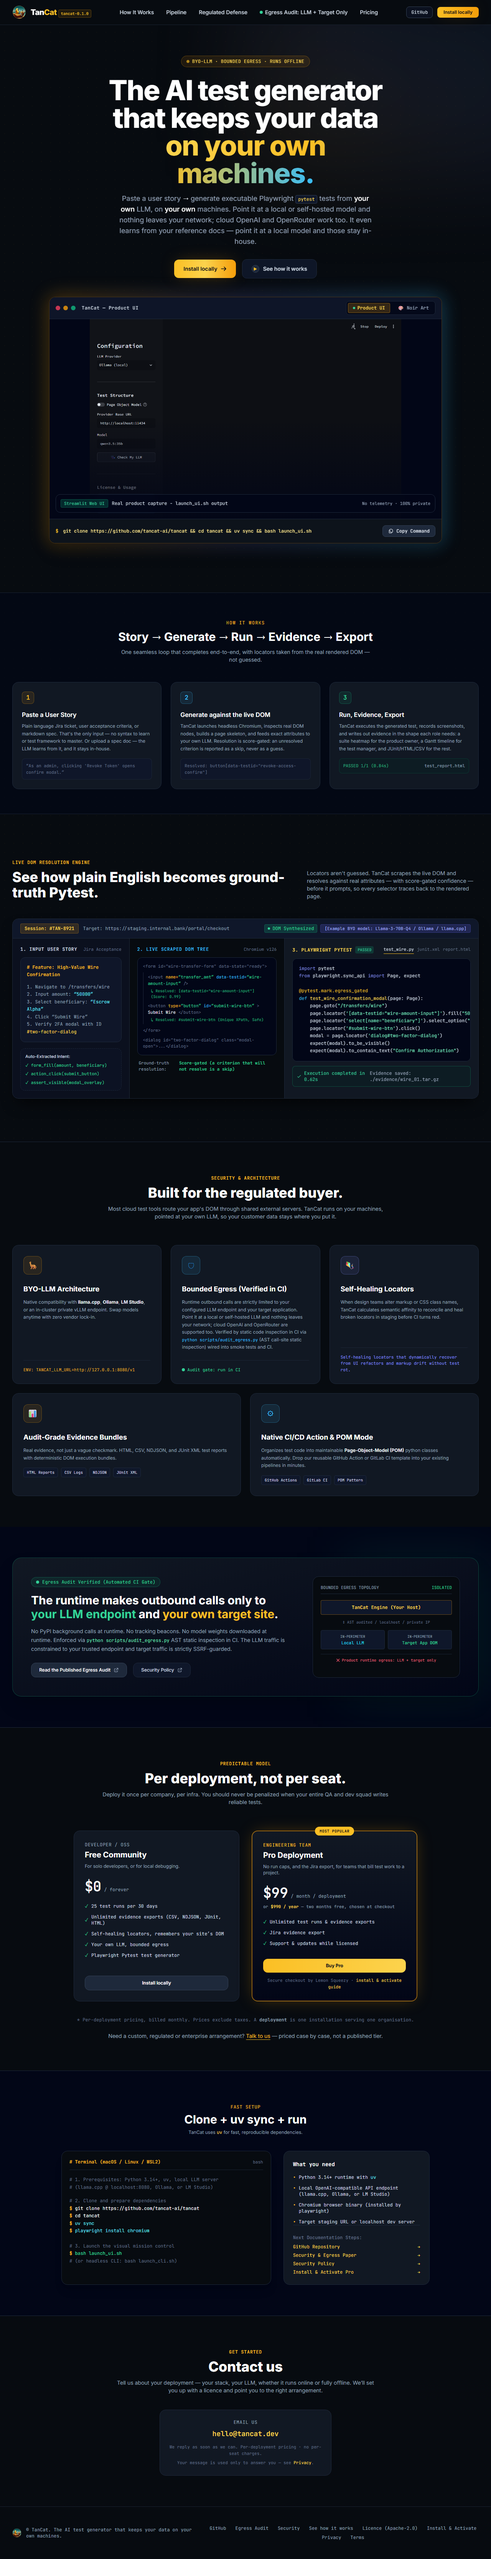
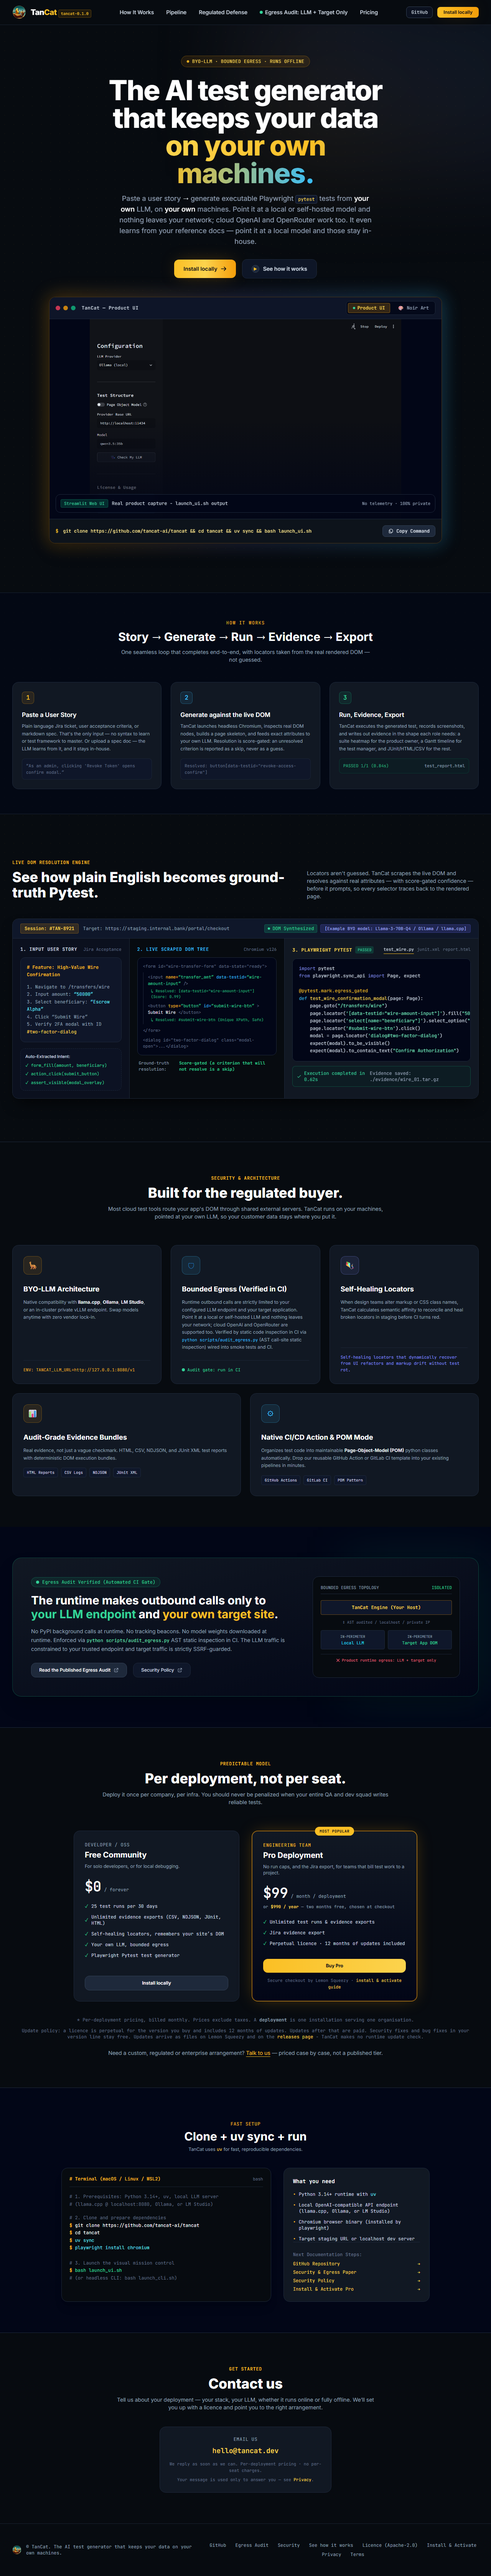
fix(copy): state the update policy the same way everywhere (t-0732)
The Pro card promised "Support & updates while licensed" while the install page
said the product makes no update check. Replace both with the approved shape,
said the same way on every customer-facing surface:

- a licence is perpetual for the version you buy;
- it includes 12 months of updates from purchase;
- later updates are paid;
- security fixes and bug fixes in the bought version line stay free;
- updates are files on Lemon Squeezy and on the releases page, so there is
  still no runtime update check.

Files: landing/index.html (Pro card bullet + update-policy note),
landing/install.html (new Updates section), landing/terms.html (Pro tier row,
new Updates section, "Changes" wording), the shipped PDF source
(docs/implementation/tancat-pro-install-and-licence.html),
docs/user/reference/licensing.md, docs/user/getting-started/install.md, and the
Lemon Squeezy checklist.

No price changed. index.html and the PDF source are tracked asset sources, so
the landing assets were regenerated (og-card, both previews, the PDF and
landing/asset-sources.json).

Verified: mkdocs build --strict clean; landing_assets_guard.py --check OK; 20
tests pass (tests/test_website_site_health.py + tests/test_landing_asset_guard.py).

diff --git a/landing/index.html b/landing/index.html
@@ -307,12 +307,13 @@
     <div><div class="text-xs font-mono uppercase text-amber-400 tracking-wider">Engineering Team</div><h3 class="text-xl font-bold text-white mt-1">Pro Deployment</h3><p class="text-slate-400 text-xs mt-2">No run caps, and the Jira export, for teams that bill test work to a project.</p>
     <div class="my-6"><span class="text-4xl font-black text-white font-mono">$99</span><span class="text-slate-400 text-xs font-mono"> / month / deployment</span></div>
     <div class="-mt-4 mb-6 text-[11px] font-mono text-slate-400">or <span class="text-amber-300 font-semibold">$990 / year</span> &mdash; two months free, chosen at checkout</div>
-    <ul class="space-y-3 text-xs text-slate-300 font-mono"><li class="flex items-center gap-2 text-emerald-400"><span>&#10003;</span><span class="text-slate-300">Unlimited test runs &amp; evidence exports</span></li><li class="flex items-center gap-2 text-emerald-400"><span>&#10003;</span><span class="text-slate-300">Jira evidence export</span></li><li class="flex items-center gap-2 text-emerald-400"><span>&#10003;</span><span class="text-slate-300">Support &amp; updates while licensed</span></li></ul></div>
+    <ul class="space-y-3 text-xs text-slate-300 font-mono"><li class="flex items-center gap-2 text-emerald-400"><span>&#10003;</span><span class="text-slate-300">Unlimited test runs &amp; evidence exports</span></li><li class="flex items-center gap-2 text-emerald-400"><span>&#10003;</span><span class="text-slate-300">Jira evidence export</span></li><li class="flex items-center gap-2 text-emerald-400"><span>&#10003;</span><span class="text-slate-300">Perpetual licence &middot; 12 months of updates included</span></li></ul></div>
     <div class="mt-8"><a class="w-full block text-center py-2.5 px-4 rounded-xl text-xs font-bold text-slate-950 bg-gradient-to-r from-amber-400 to-amber-300 hover:brightness-110 shadow-md transition-all" href="#contact" id="buy-pro" data-checkout-state="not-configured">Buy Pro</a></div>
     <p class="mt-3 text-center text-[11px] font-mono text-slate-500">Secure checkout by Lemon Squeezy &middot; <a class="text-amber-300 hover:underline" href="install.html">install &amp; activate guide</a></p>
   </div>
 </div>
 <div class="text-center mt-10 text-xs font-mono text-slate-500">* Per-deployment pricing, billed monthly. Prices exclude taxes. A <strong class="text-slate-400">deployment</strong> is one installation serving one organisation.</div>
+<div class="text-center mt-3 text-xs font-mono text-slate-500">Update policy: a licence is perpetual for the version you buy and includes 12 months of updates. Updates after that are paid. Security fixes and bug fixes in your version line stay free. Updates arrive as files on Lemon Squeezy and on the <a class="text-amber-300 hover:underline" href="https://github.com/tancat-ai/tancat/releases" rel="noopener noreferrer" target="_blank">releases page</a> - TanCat makes no runtime update check.</div>
 <div class="text-center mt-6 text-sm text-slate-400">
   Need a custom, regulated or enterprise arrangement?
   <a class="text-amber-400 hover:text-amber-300 underline underline-offset-4" href="#contact">Talk to us</a>

diff --git a/landing/terms.html b/landing/terms.html
@@ -67,9 +67,13 @@ footer{margin-top:56px;padding-top:20px;border-top:1px solid #1e293b;font:12px u
 <table>
 <tr><th>Tier</th><th>Licence</th><th>Limits</th></tr>
 <tr><td>Free Community</td><td>Apache-2.0 (the open-source licence in the <a href="https://github.com/tancat-ai/tancat/blob/main/LICENSE" rel="noopener">repository</a>)</td><td>25 test runs per 30 days; unlimited evidence exports</td></tr>
-<tr><td>Pro Deployment</td><td>Commercial per-deployment licence, key issued by us</td><td>Unlimited runs for one deployment; Jira evidence export</td></tr>
+<tr><td>Pro Deployment</td><td>Commercial per-deployment licence, key issued by us; perpetual for the version bought</td><td>Unlimited runs for one deployment; Jira evidence export; 12 months of updates included</td></tr>
 </table>
 <p>Custom, regulated or enterprise arrangements are agreed case by case, not sold as a published tier. <a href="index.html#contact">Contact us</a>.</p>
+
+<h2>Updates</h2>
+<p>A licence is <strong>perpetual for the version you buy</strong>: it does not expire, and the version you hold keeps working. It includes <strong>12 months of updates</strong> from the date of purchase. After those 12 months, further updates are paid. Security fixes and bug fixes in the version line you bought stay free for the life of the licence.</p>
+<p>Updates are delivered as files on Lemon Squeezy and on the <a href="https://github.com/tancat-ai/tancat/releases" rel="noopener">releases page</a>. TanCat does not check for updates at runtime and calls no vendor server; you choose when to install an update.</p>
 
 <h2>What a &ldquo;deployment&rdquo; is</h2>
 <p>One deployment is one installation of TanCat that serves one organization. You may not share, resell or publish a licence key. The free-tier limits are enforced locally by your own deployment, so a self-hoster can turn them off; they are a nudge, not a lock. We ask that you do not reset a limit to avoid paying for a paid tier.</p>
@@ -97,7 +101,7 @@ footer{margin-top:56px;padding-top:20px;border-top:1px solid #1e293b;font:12px u
 <p>You may stop using the software at any time. We may end a paid licence if you breach these terms or share a key, after written notice where the breach can be fixed. The free tier needs no licence and cannot be withdrawn from you, because it is open source.</p>
 
 <h2>Changes</h2>
-<p>We may update these terms. The date at the top changes with them. Changes apply to licences bought after the change; a change never reduces the rights of a licence you already hold for its term.</p>
+<p>We may update these terms. The date at the top changes with them. Changes apply to licences bought after the change; a change never reduces the rights you already hold for the version you bought.</p>
 
 <h2>Governing law</h2>
 <p>These terms are governed by the law of England and Wales, and the courts of England and Wales have exclusive jurisdiction.</p>

diff --git a/docs/implementation/tancat-pro-install-and-licence.html b/docs/implementation/tancat-pro-install-and-licence.html
@@ -22,13 +22,14 @@
   strong { color: #000; }
 </style></head><body>
 <h1>TanCat Pro Deployment Licence</h1>
-<p class="sub">Install and licence activation &mdash; one deployment, billed monthly, includes support and updates while your licence is active.</p>
+<p class="sub">Install and licence activation &mdash; one deployment. A licence is perpetual for the version you buy and includes 12 months of updates.</p>
 
 <h2>1. What this licence covers</h2>
 <ul>
   <li>One <strong>deployment</strong>: one installation of TanCat serving one organisation.</li>
   <li>Unlimited test runs and evidence exports on that deployment.</li>
-  <li>Support and product updates while the licence is active.</li>
+  <li>A perpetual licence for the version you buy, with 12 months of updates included.</li>
+  <li>Updates after the first 12 months are paid; security fixes and bug fixes in the version line you bought stay free.</li>
   <li>Not counted per user &mdash; your whole team may use it. Do not share or resell the key.</li>
 </ul>
 
@@ -57,7 +58,10 @@ bash launch_cli.sh     # interactive CLI</pre>
 <h2>5. Where your data goes</h2>
 <p>Your data stays on your machines when you point TanCat at a local or self-hosted LLM. The product runtime makes outbound calls only to <strong>your</strong> configured LLM endpoint and <strong>your</strong> target site &mdash; no telemetry, no update check, no vendor call. Cloud OpenAI and OpenRouter are supported if you choose them. Verified by an audit that runs in CI: <code>docs/security/egress-audit.md</code>.</p>
 
-<h2>6. Support</h2>
+<h2>6. Updates</h2>
+<p>Updates are files, not a service: they arrive on Lemon Squeezy and on the releases page (github.com/tancat-ai/tancat/releases), and you choose when to install them. The product makes <strong>no runtime update check</strong> and calls no vendor server.</p>
+
+<h2>7. Support</h2>
 <p>Email <strong>hello@tancat.dev</strong>. We reply as soon as we can.</p>
 
 <p class="foot">TanCat is a sole-trader business based in the United Kingdom. Licence terms: https://tancat.dev/terms.html &middot; Privacy: https://tancat.dev/privacy.html<br/>Merchant of record: Lemon Squeezy. Their terms govern the purchase transaction; these licence terms govern the software.</p>

diff --git a/landing/install.html b/landing/install.html
@@ -119,6 +119,12 @@ bash launch_ui.sh</code></pre>
   </section>
 
   <section class="mt-10">
+    <h2 class="text-lg font-bold text-white">Updates</h2>
+    <p class="text-slate-400 text-xs mt-1">A licence is <strong class="text-slate-200">perpetual for the version you buy</strong>: it does not expire, and the version you hold keeps working. It includes <strong class="text-slate-200">12 months of updates</strong> from purchase. After those 12 months, further updates are paid. Security fixes and bug fixes in the version line you bought stay free for the life of the licence.</p>
+    <p class="text-slate-400 text-xs mt-2">Updates are files, not a service: they arrive on Lemon Squeezy and on the <a class="text-amber-300 hover:underline" href="https://github.com/tancat-ai/tancat/releases" rel="noopener noreferrer" target="_blank">releases page</a>, and you choose when to install them. The product makes <strong class="text-slate-200">no runtime update check</strong> and calls no vendor server.</p>
+  </section>
+
+  <section class="mt-10">
     <h2 class="text-lg font-bold text-white">More</h2>
     <ul class="mt-3 space-y-2 text-sm">
       <li><a class="text-amber-300 hover:underline" href="tancat-pro-install-and-licence.pdf">Download the install &amp; licence PDF</a></li>

diff --git a/docs/launch/lemon-squeezy-checklist.html b/docs/launch/lemon-squeezy-checklist.html
@@ -84,7 +84,8 @@
       <tr><td>Pro &mdash; monthly</td><td>$99</td><td>Every month</td></tr>
       <tr><td>Pro &mdash; yearly</td><td>$990</td><td>Every year</td></tr>
     </table>
-    Put the same feature list on both (unlimited runs and evidence exports, POM mode, multi-site suites, CI/CD Action, support and updates while licensed, one deployment &mdash; whole team, no per-seat charge).
+    Put the same feature list on both (unlimited runs and evidence exports, POM mode, multi-site suites, CI/CD Action, a perpetual licence for the version bought with 12 months of updates included, one deployment &mdash; whole team, no per-seat charge).
+    <div class="muted">Update entitlement: 12 months of updates included; later updates are paid. Security fixes and bug fixes within the bought version line stay free. Updates are delivered as files on Lemon Squeezy and on the releases page; the product itself never checks for updates.</div>
     <div class="muted">Where: dashboard &rarr; Products &rarr; New product.</div>
   </li>
 

diff --git a/CHANGELOG.md b/CHANGELOG.md
@@ -10,6 +10,7 @@ Version numbers follow [Semantic Versioning](https://semver.org/spec/v2.0.0.html
 ## [Unreleased]
 
 ### Fixed
+- **Update and support copy now matches the approved licence shape (2026-10-12, t-0732):** the Pro card promised "Support &amp; updates while licensed" while the install page said the product makes no update check. Both are now replaced by one policy, stated the same way on the Pro card, the install page, the terms, the licence PDF and the user docs: a licence is **perpetual for the version you buy**, includes **12 months of updates**, later updates are paid, and security fixes and bug fixes in the bought version line stay free. Updates are delivered as files on Lemon Squeezy and on the releases page, so there is still no runtime update check. No price changed. Landing assets (og-card, both previews, the install PDF and the source fingerprint) were regenerated; `mkdocs build --strict` clean.
 - **Self-Heal Failed Tests no longer crashes on Windows when pytest output contains a byte outside cp1252 (2026-10-12, t-0717):** the same defect j-0141 fixed in `PipelineRunService` still lived in `SelfHealingRunner._run_pytest` (`src/self_healing.py`). It read pytest output with `subprocess.run(..., text=True)` and no `encoding`, so on Windows the locale codec (cp1252) raised `UnicodeDecodeError` on a 0x81 byte and the "Self-Heal Failed Tests" button on Run & Fix died. The read now decodes UTF-8 with `errors="replace"`. +2 tests (`tests/test_self_healing.py`): a real child that emits the byte plus a normal pytest summary still parses its real result, and a kwargs pin so Linux CI catches a regression too.
 - **Run & Fix no longer crashes on Windows when pytest output contains a byte outside cp1252 (2026-10-12, t-0714):** `PipelineRunService.run_saved_test` called `subprocess.run(..., text=True)` with no `encoding`, so on Windows the reader thread decoded pytest output with the locale codec (cp1252). A single 0x81 byte in a failure traceback raised `UnicodeDecodeError` and the service returned a run result of 0 tests - seen at the t-0706 demo rehearsal, where the UI showed an empty run instead of the real 4 failed / 5 passed. The output is now decoded as UTF-8 with `errors="replace"`, so a stray byte can never break a live run. +2 tests (`tests/test_pipeline_run_service.py`): one drives a real child that emits the byte and asserts the real results still parse; one pins the decode kwargs so Linux CI catches a regression too.
 - **RAG keepalive regression pinned out (2026-10-11, t-0685 / figures corrected t-0693, t-0698):** the multi-site/long path logged gRPC "Too many pings" that degraded RAG retrieval to no patterns. A four-run tancat-only UAT bisect tracks the RPC **failures** (not the GOAWAYs) to **pymilvus 3.0.2**: run 1 (3.0.2) = 2 failed operations / 1 GOAWAY; run 3 (3.0.0) = 0 / 1; the three-site UAT agrees: 3.0.2 = 6 failed / 3 GOAWAYs, 3.0.0 = 0 failed / 4 GOAWAYs. Not grpcio 1.84.0 - 3.0.2 keeps the same keepalive options but reworks the channel/reconnect lifecycle, so it no longer recovers from the server's ping throttle. The fix therefore removes the **failures** (6 -> 0) but not the **GOAWAYs** (3 -> 4; the client recovers from them). The two are different log strings: a failure is the gRPC symptom line `details = "Too many pings"` (spaces; counted on that line alone - an `_InactiveRpcError` appears twice per failure and also for unrelated gRPC errors such as DEADLINE_EXCEEDED), a GOAWAY is the C-core `Received a GOAWAY` / `too_many_pings` (underscore). `pymilvus` is pinned back to `3.0.0`; `grpcio` to `1.83.0` (the original suspect, cleared by the bisect - the Python 3.15 move must lift that pin for a cp315 wheel). Both counts stay the thing to watch; `scripts/uat.py` prints the RAG stack at startup and the two counts at the end of a run.

diff --git a/docs/user/reference/licensing.md b/docs/user/reference/licensing.md
@@ -21,6 +21,7 @@ tells the app what the deployment is allowed to do.
 | Multi-site suites | - | Yes |
 | CI / headless runs | - | Yes |
 | Support and onboarding bundle | - | Yes |
+| Updates | - | 12 months included; later updates paid |
 | Runs | 25 per 30 days | Unlimited |
 | Evidence exports | 10 per 30 days | Unlimited |
 
@@ -30,6 +31,19 @@ The two counters are shown live in the UI sidebar.
 the evidence-export counter and storage used.](../assets/streamlit-license-usage.png)
 
 *The License & Usage panel. The counters reset every 30 days.*
+
+## Updates
+
+A licence is **perpetual for the version you buy**: it does not expire, and the
+version you hold keeps working. It includes **12 months of updates** from the
+date of purchase. After those 12 months, further updates are paid. Security
+fixes and bug fixes in the version line you bought stay free for the life of the
+licence.
+
+Updates are files, not a service. They arrive on Lemon Squeezy and on the
+[releases page](https://github.com/tancat-ai/tancat/releases), and you choose
+when to install them. TanCat makes **no runtime update check** and calls no
+vendor server to ask for one.
 
 ## Install a licence key
 

diff --git a/docs/user/getting-started/install.md b/docs/user/getting-started/install.md
@@ -105,6 +105,15 @@ instead.
 
 ## Update
 
+A licence is perpetual for the version you buy and includes 12 months of updates
+from purchase. After those 12 months, further updates are paid; security fixes
+and bug fixes in the version line you bought stay free. Updates arrive as files
+on Lemon Squeezy and on the
+[releases page](https://github.com/tancat-ai/tancat/releases), and there is no
+runtime update check - you choose when to update.
+
+From a source checkout:
+
 ```bash
 git pull
 uv sync
